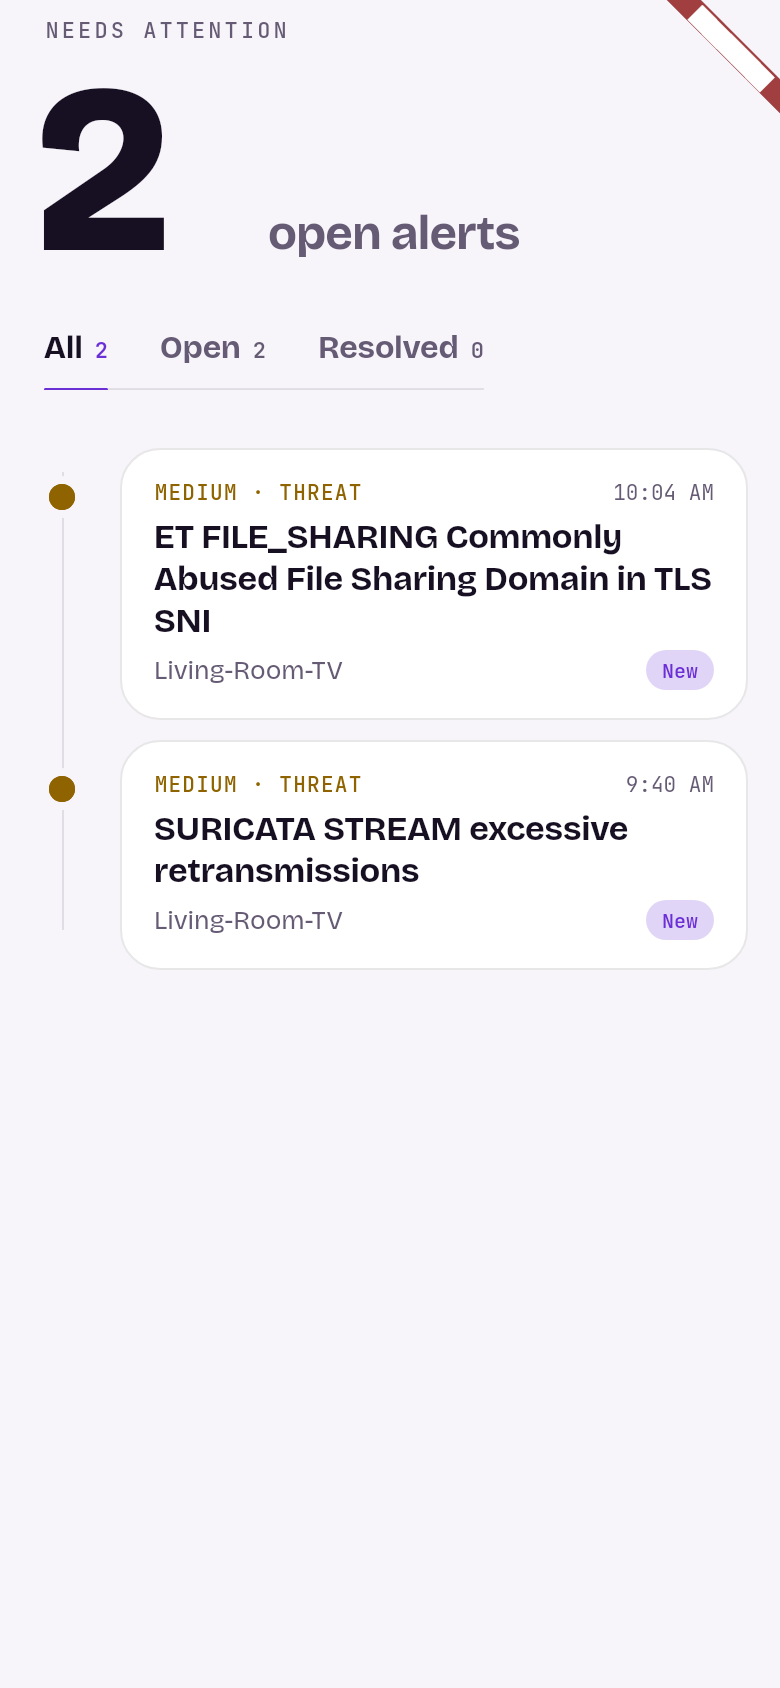
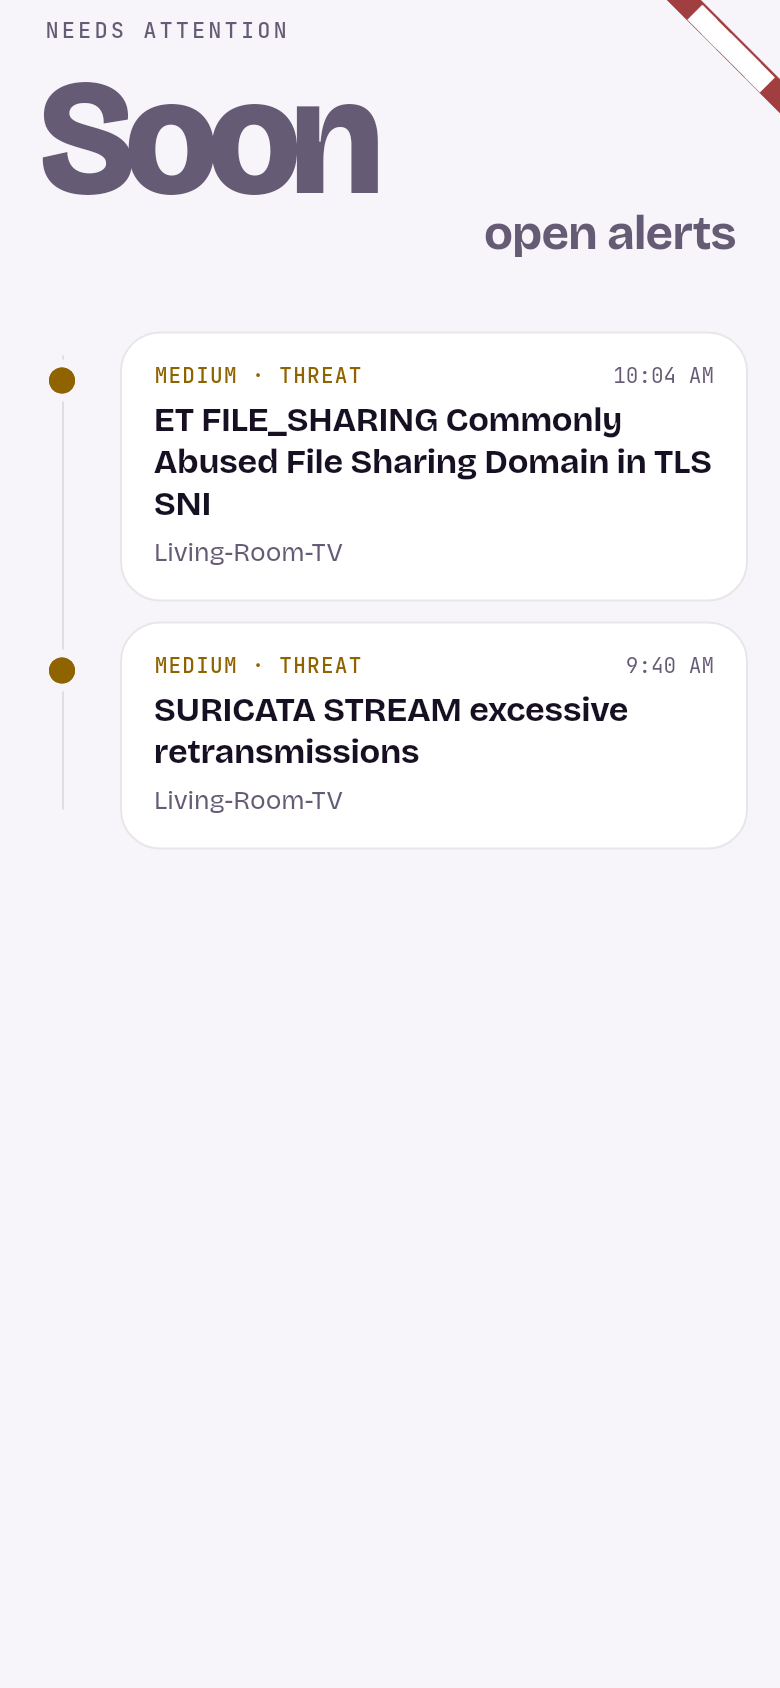
revert(scope): defer PBI-22 again — hide state management behind alertManagement=false
Team reversal of the Sprint-2 move. Hidden: Review/Resolve actions, the
New/Reviewed/Resolved badges, the All/Open/Resolved tabs, the live open-alerts
counter and the unread tab badge. The hero keeps its count design as a deferred
feature ('Soon', muted — the app's standard deferred marker). KEPT LIVE: PBI-14
(Threat Alerts list, details incl. Last seen, device alerts + linking) and
PBI-09/10 (Attention, Home priority, severity colours on devices). Code, data
and stored states preserved: PATCH/open_count endpoints and their tests remain;
no alerts deleted, no states reset to New (re-enable = flip the flag). Docs
(PLAN/README/VERIFICATION/REVIEW-RESPONSE/partD) updated to record the reversal;
gating test updated; goldens regenerated (hero 'Soon', no tabs/pills, details
show SOON·SPRINT 5 instead of Review/Resolve). mobile 76 / appliance 519 passed,
analyze clean.

diff --git a/app/mobile/lib/screens/alerts/alert_list_screen.dart b/app/mobile/lib/screens/alerts/alert_list_screen.dart
@@ -103,9 +103,12 @@ class _AlertListScreenState extends State<AlertListScreen> {
 
   Widget _hero() {
     // Original design: a big OPEN count on the left, "open alerts" on the right.
-    // The count is the DB aggregate of New+Reviewed (openAlertCount), not the
-    // length of the loaded page.
-    final count = state.openAlertCount;
+    // The live figure (DB aggregate of New+Reviewed) belongs to alert state
+    // management (PBI-22, deferred): with the flag off the hero keeps the count
+    // design but shows the app's deferred marker ("Soon", muted — same pattern
+    // as the dashboard risk word) instead of a number.
+    final live = Released.alerts && Released.alertManagement;
+    final count = live ? state.openAlertCount : null;
     return Column(
       crossAxisAlignment: CrossAxisAlignment.start,
       children: [
@@ -123,8 +126,8 @@ class _AlertListScreenState extends State<AlertListScreen> {
                   fit: BoxFit.scaleDown,
                   alignment: Alignment.centerLeft,
                   child: Text(
-                    Released.alerts ? (count?.toString() ?? '—') : '—',
-                    style: UiText.alertsHero.copyWith(color: Released.alerts ? Ui.ink : Ui.mute),
+                    count?.toString() ?? (live ? '—' : 'Soon'),
+                    style: UiText.alertsHero.copyWith(color: live ? Ui.ink : Ui.mute),
                   ),
                 ),
               ),

diff --git a/app/packages/assas_design/lib/release_status.dart b/app/packages/assas_design/lib/release_status.dart
@@ -8,10 +8,13 @@ abstract final class FeatureRelease {
   static bool get alerts => true;
   static bool get risk => false; // Sprint 4
   static bool get baseline => false; // Sprint 3
-  // PBI-22 (alert state management) moved into Sprint 2: New/Reviewed/Resolved
-  // transitions, the Open/Resolved tabs, and the Review/Resolve actions. This
-  // flag is independent of the deferred Home surfaces below.
-  static bool get alertManagement => true;
+  // PBI-22 (alert state management) is DEFERRED again (team reversal of the
+  // earlier Sprint-2 move). Hidden behind this flag: Review/Resolve actions,
+  // the New/Reviewed/Resolved badges, the All/Open/Resolved tabs, and the live
+  // open-alerts counter (the hero keeps its count design as a deferred
+  // feature). The backend endpoints and any stored states remain untouched —
+  // nothing is deleted or reset to New.
+  static bool get alertManagement => false;
 
   // PBI-09/PBI-10 (approved for Sprint 2): unresolved alerts feed the device
   // signals — Attention computation, Home device priority, and the per-row

diff --git a/app/mobile/test/alerts_test.dart b/app/mobile/test/alerts_test.dart
@@ -86,7 +86,10 @@ void main() {
   group('Sprint-2 feature gating', () {
     test('alerts + state management are enabled; later-sprint surfaces hidden', () {
       expect(FeatureRelease.alerts, isTrue); // Alerts tab, details, device alerts
-      expect(FeatureRelease.alertManagement, isTrue); // PBI-22 moved into Sprint 2
+      // PBI-22 deferred again (team reversal): Review/Resolve, state badges,
+      // All/Open/Resolved tabs and the live open-count stay hidden. Stored
+      // states and the backend endpoints are untouched.
+      expect(FeatureRelease.alertManagement, isFalse);
       expect(FeatureRelease.alertSeverityBadges, isTrue); // PBI-09/10: signals + priority
       // Everything else stays hidden until its own sprint:
       expect(FeatureRelease.alertsHome, isFalse); // Home count + recent summary (PBI-24)

diff --git a/docs/sprint-2/VERIFICATION.md b/docs/sprint-2/VERIFICATION.md
@@ -16,7 +16,7 @@ Legend: ✅ pass · ❌ fail · ☐ not tested.
 | 4 | Link alert to the right device; `device_mac` NULL when no match | ✅ | Live + Automated | Live: **56 linked**, **12 NULL** (link-local / address-less → NULL). Automated: one/both→source/neither rules in `test_alerts.py` | `evidence/final-live-verify.txt`; `appliance/test_alerts.py` | `6d15b7d` |
 | 5 | Resume after reader stop; multiple rotations; no loss/dup; keep unread files | ✅ Fixed + verified (Automated + Live) | Automated + Live | A reboot-induced `offset>size` had made the old handler **re-read from 0 → duplicate** (68→651, occ→1496) and an unhandled `UnicodeDecodeError` crash-looped it. **Fixed (`10b78e7`)**: gap→resume at EOF (no re-read, documented data loss), decode errors skipped. **Deployed + cleaned 2026-11-03**; independent verification: 331 rows, `SUM(occurrence)=2843 == 2843` source events (diff 0), caught up, no crash. **Restart-safety re-check:** a restart left rows/`SUM(occurrence)`/offset **identical** (337/2854/29899717 before==after) → resumed from checkpoint, no re-ingestion. Pre-reset: 0 DB-only alerts; backup preserves prior state. | `evidence/partB-defect-duplication.md`, `evidence/partB-cleanup-verify.txt`, `evidence/partB-restart-safety.txt`; `appliance/test_alerts.py` | `10b78e7` |
 | 6 | Three endpoints: reject unauthenticated; succeed with a paired session | ✅ | Live + Automated | Live from a **non-local (LAN-IP)** address: **401 without a token** and **200 with a valid paired token** on all three (`/alerts`, `/alerts/{id}`, `/devices/{mac}/alerts`); token obtained via the normal pairing flow and removed with `/unpair` afterwards (token never printed/stored). localhost→200 only exercises the local-bypass path. Automated: `AlertContractTests` — 401 without token, 200 + exact contract with a token | `evidence/partC-auth-live.txt`; `appliance/test_frontend_contract.py` | `810c3ab` |
-| 7 | Alert screens + navigation; data matches the API | ◐ screenshots generated; owner sign-off pending | Automated render | UI pass + **PBI-22 moved into Sprint 2**: Alerts hero = open count + "open alerts" (DB aggregate); Open/Resolved tabs + Review/Resolve + state badge live; hidden alert fields; device-name unification; connection Online/Outdated/Offline; redesigned device filters; pairing text; Home phrasing; Active-identification states. Independent per-device/by-id fetch + pagination (review #3). Whole-app overflow test spans zoom {1.0,1.2} × scale {0.85,1.0,1.3} × widths {320,400}. Full details + per-item table in **`REVIEW-RESPONSE.md`**. Screenshots in `evidence/ui/*.png`. **Not marked passed until owner confirms the live screens + data-matches-API.** | `REVIEW-RESPONSE.md`, `evidence/ui/`, `test/detail_overflow_test.dart` | `a9278cc`,`cdad1da`,`b65d25b` |
+| 7 | Alert screens + navigation; data matches the API | ◐ screenshots generated; owner sign-off pending | Automated render | UI pass. **PBI-22 was moved into Sprint 2 and then DEFERRED again (team reversal)** — `alertManagement` is OFF: Review/Resolve, state badges, All/Open/Resolved tabs and the live open-count are hidden (hero keeps the muted count design); endpoints + stored states untouched. Originally delivered under the temporary move: Alerts hero = open count + "open alerts" (DB aggregate); Open/Resolved tabs + Review/Resolve + state badge live; hidden alert fields; device-name unification; connection Online/Outdated/Offline; redesigned device filters; pairing text; Home phrasing; Active-identification states. Independent per-device/by-id fetch + pagination (review #3). Whole-app overflow test spans zoom {1.0,1.2} × scale {0.85,1.0,1.3} × widths {320,400}. Full details + per-item table in **`REVIEW-RESPONSE.md`**. Screenshots in `evidence/ui/*.png`. **Not marked passed until owner confirms the live screens + data-matches-API.** | `REVIEW-RESPONSE.md`, `evidence/ui/`, `test/detail_overflow_test.dart` | `a9278cc`,`cdad1da`,`b65d25b` |
 | 8 | Independent 2-hour resource run **without** the dev agent (CPU/mem/traffic/drops/continuity) | ☐ | — | Not yet run (the agent is the co-resident process). Script ready: `clean_resource_run.sh` (aborts if agent present; guards throughout). **First run retained: memory target NOT met.** | `appliance/tools/clean_resource_run.sh`; `EVALUATION.md §4` | `6bd3981` |
 | 9 | Later-sprint features stay hidden; Sprint 1 not broken | ✅ | Automated | Gating test locks `alerts=true` with `alertsHome`/`alertSeverityBadges`/`alertDisplay`/`alertExplanations`/`alertManagement`/`risk`=false; appliance **503 passed**, mobile **63 passed** (Sprint 1 suites green) | `app/mobile/test/alerts_test.dart`; suites | `87d819e` |
 | R | Resource targets (CPU ≤75% avg, memory <4 GB, drops) — baseline | ✅ CPU · ✅ drops · ❌ memory | Live | CPU avg **29.5%**/max 39.9% (PASS); drop rate **0.0%** (0/163,368) (PASS); total-device memory avg **4.90 GB**/max 6.01 GB → **NOT met** (dev agent co-resident; not excluded) | `evidence/resources/resource-2h-summary.json` | `2bea922` |
@@ -65,12 +65,13 @@ isolated test backend. On a machine with Flutter:
 cd app/mobile && flutter pub get && flutter run   # or: flutter run -d chrome
 ```
 Pair using the code on the 7-inch display, then capture into `docs/sprint-2/evidence/ui/`
-(**updated for the PBI-22 move + field-hiding decisions**):
-1. `alerts-tab.png` — hero: open count + "open alerts" (DB aggregate); All/Open/Resolved tabs;
-   list rows: title, severity, device, last event time, state pill; newest first (no occurrence `N×`).
-2. `alert-details.png` — title, time, device pill (navigates to device details), state badge,
-   Review/Resolve buttons; Signal details: alert type, severity, last seen, source/destination IP
-   (no occurrences / first seen / rule ID / ports; explanation block still hidden).
+(**final: PBI-22 deferred again — state-management UI hidden**):
+1. `alerts-tab.png` — hero keeps the count design with a muted "—" (live count deferred with
+   PBI-22); no tabs/state pills; list rows: title, severity, device, last event time; newest first
+   (no occurrence `N×`).
+2. `alert-details.png` — title, time, device pill (navigates to device details); Signal details:
+   alert type, severity, last seen, source/destination IP; **no** Review/Resolve, **no** state badge
+   (deferred SOON tag instead; no occurrences / first seen / rule ID / ports; explanation hidden).
 3. `device-alerts.png` — the device's alerts (no "Coming soon").
 4. `device-list.png` — severity flag on alerting devices (severity palette, PBI-09/10).
 Confirm each screen's values match `GET /alerts` / `/alerts/{id}` / `/devices/{mac}/alerts`.

diff --git a/docs/sprint-2/README.md b/docs/sprint-2/README.md
@@ -228,17 +228,20 @@ own flags.
 `alertSeverityBadges`, `alertDisplay`, `alertExplanations` all **false**; `alertManagement`, `risk`
 stay false.
 
-> **Scope update:** PBI-22 (alert state management — New/Reviewed/Resolved,
-> All/Open/Resolved tabs, Review/Resolve) was **moved into Sprint 2**. The
-> `alertManagement` flag is ON and is independent of the still-deferred Home
-> surfaces (PBI-24). Per the field-hiding decision, occurrences / first & last
-> seen / rule id / ports are hidden in the UI but kept in the DB and API. See
-> `REVIEW-RESPONSE.md` and `partD-*` for the current behaviour and live results.
+> **Scope update (final):** the earlier move of PBI-22 (alert state management)
+> into Sprint 2 was **reversed — PBI-22 is deferred again**. `alertManagement`
+> is OFF: Review/Resolve, the New/Reviewed/Resolved badges, the All/Open/Resolved
+> tabs and the live open-alerts counter are hidden (the hero keeps its count
+> design, muted). The backend endpoints and stored states remain untouched —
+> nothing deleted, nothing reset to New. PBI-14 stays live (list, details with
+> Last seen, device alerts + linking) and PBI-09/10 stays live (Attention,
+> priority, severity colours). Occurrences / first seen / rule id / ports stay
+> hidden in the UI but kept in the DB and API.
 
 | Surface | Sprint 2 | How |
 |---|---|---|
-| Alerts tab (list) | ✓ shown | open count + "open alerts" hero (DB aggregate New+Reviewed); title, severity, device, last event time, state; newest first; **All/Open/Resolved tabs ON** (PBI-22 moved into Sprint 2). Occurrence `N×` is **hidden**. |
-| Alert details | ✓ shown | title, time, device (+nav), **state badge**, and in Signal details: alert type, severity, source/destination IP. **Review/Resolve actions ON** (PBI-22). Occurrences, first/last seen, rule ID and ports are **hidden** (kept in DB + API); explanation block hidden (`alertExplanations`). |
+| Alerts tab (list) | ✓ shown | hero keeps the count design but shows a muted "—" (live count = PBI-22, deferred); title, severity, device, last event time; newest first. Tabs, state pills and occurrence `N×` **hidden** (`alertManagement` off). |
+| Alert details | ✓ shown | title, time, device (+nav), and Signal details: alert type, severity, **Last seen** (= last event time), source/destination IP. Review/Resolve + state badge **hidden** (PBI-22 deferred → SOON tag). Occurrences, first seen, rule ID and ports **hidden** (kept in DB + API); explanation block hidden. |
 | Device details → alerts | ✓ shown | this device's alerts replace "Coming soon" |
 | Home open-alerts count + recent summary | ✗ hidden | gated on `alertsHome` → stays "SOON" |
 | Device-list severity badges / sort | ✗ hidden | gated on `alertSeverityBadges` |

diff --git a/docs/sprint-2/PLAN.md b/docs/sprint-2/PLAN.md
@@ -152,12 +152,14 @@ belong to later sprints (for example the Home open-alerts count, recent-alerts s
 device-signal badges, and network risk) stay hidden or move behind their own later-sprint flag.
 The flag is enabled only after that audit is approved.
 
-With the existing design and styling preserved (**updated — PBI-22 and the PBI-09/10 signal
-linkage were later approved into Sprint 2; the original plan text kept them off**):
-- `FeatureRelease.alerts` and `FeatureRelease.alertManagement` are `true`: the All/Open/Resolved
-  tabs and the Review/Resolve actions are live (PBI-22). `alertSeverityBadges` is `true`:
-  unresolved linked alerts feed the device signals (Attention + Home priority, severity palette).
-  The Home open-alerts count/summary (PBI-24) and the 7-inch display count stay hidden.
+With the existing design and styling preserved (**final — PBI-22 was briefly moved into
+Sprint 2 and then deferred again by team decision; PBI-09/10 signal linkage stays approved**):
+- `FeatureRelease.alerts` is `true`; `FeatureRelease.alertManagement` is **`false`** (PBI-22
+  deferred): no All/Open/Resolved tabs, no Review/Resolve, no state badges, no live open-count
+  (the hero keeps the count design, muted). The PATCH/open_count endpoints and any stored states
+  remain in place, untouched. `alertSeverityBadges` is `true` (PBI-09/10): unresolved linked
+  alerts feed the device signals (Attention + Home priority, severity palette). The Home
+  open-alerts count/summary (PBI-24) and the 7-inch display count stay hidden.
 - `SecurityAlert` and its `fromApi` factory are extended additively with `occurrence_count`, first
   and last event times, `src_port` / `dst_port`, and `rule_id` (kept in the DB and API).
 - **Alerts tab:** hero = true open count (DB aggregate of New+Reviewed) + "open alerts"; a list of

diff --git a/docs/sprint-2/REVIEW-RESPONSE.md b/docs/sprint-2/REVIEW-RESPONSE.md
@@ -1,5 +1,14 @@
 # Sprint 2 — Code-review response, PBI-22 move & UI pass
 
+> **Scope reversal (final):** after everything below was delivered and live-verified,
+> the team **deferred PBI-22 again**. `alertManagement` is now OFF: Review/Resolve,
+> state badges, All/Open/Resolved tabs and the live open-count are hidden (the hero
+> keeps its count design, muted). The PATCH/open_count endpoints, their tests, and
+> all stored states remain in place untouched (nothing deleted, nothing reset to
+> New) — the feature re-enables by flipping the flag. PBI-14 (list, details with
+> Last seen, device alerts + linking) and PBI-09/10 (Attention/priority/severity
+> colours) remain live.
+
 Covers: the external code review of `959d2af`, the approved move of **PBI-22
 (alert state management) into Sprint 2**, and the whole-app UI changes. Work is
 on branch `sprint-2` only — **not merged to `main`, nothing deployed to the

diff --git a/docs/sprint-2/evidence/partD-pbi22-live.md b/docs/sprint-2/evidence/partD-pbi22-live.md
@@ -1,5 +1,9 @@
 # PBI-22 — live verification on the appliance (post-deploy)
 
+> **Note (added after reversal):** PBI-22 was subsequently deferred again; the
+> UI is hidden behind `alertManagement=false`. The results below remain valid
+> evidence for the backend (endpoints stay deployed; stored states kept).
+
 Deployed `sprint-2 @ 16a4de2` on 2026-11-04 (backup
 `/etc/suricata/assas.yaml.bak-20261104T160917Z`; `suricata -T` passed with the
 IPv6 HOME_NET; all five services `active`; `/healthz` ok). No token value is
